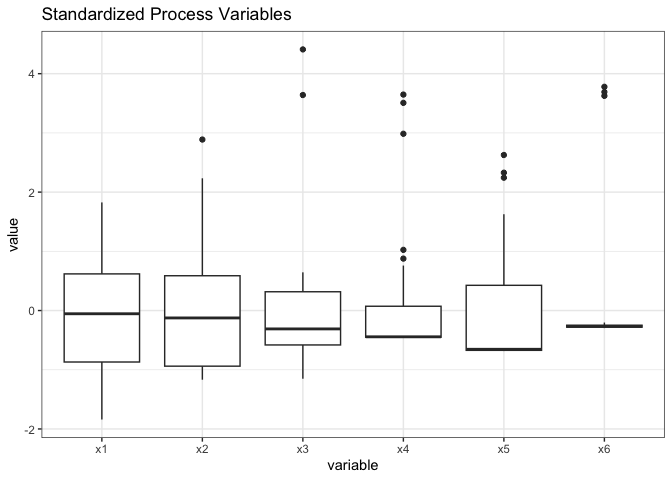
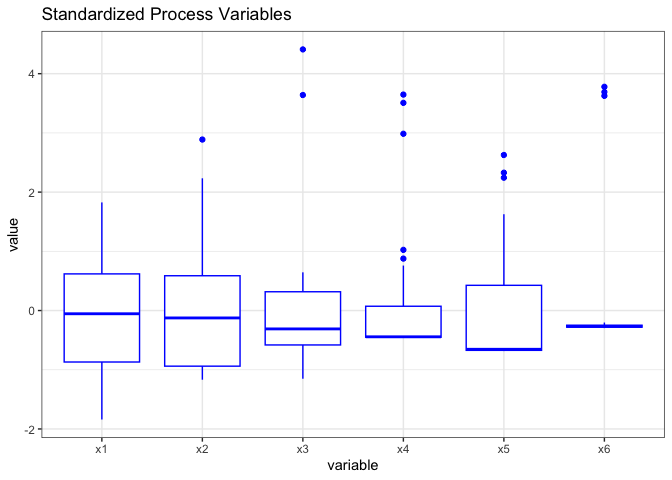
Added knit

diff --git a/MV.md b/MV.md
@@ -35,7 +35,7 @@ df |>
   as_tibble() |>
   pivot_longer(cols = 1:6, names_to = "variable", values_to = "value") |>
   ggplot(aes(x = variable, y = value)) +
-  geom_boxplot() + theme_bw() + ggtitle("Standardized Process Variables")
+  geom_boxplot(color = 'blue') + theme_bw() + ggtitle("Standardized Process Variables")
 ```
 
 ![](MV_files/figure-gfm/unnamed-chunk-3-1.png)<!-- -->
